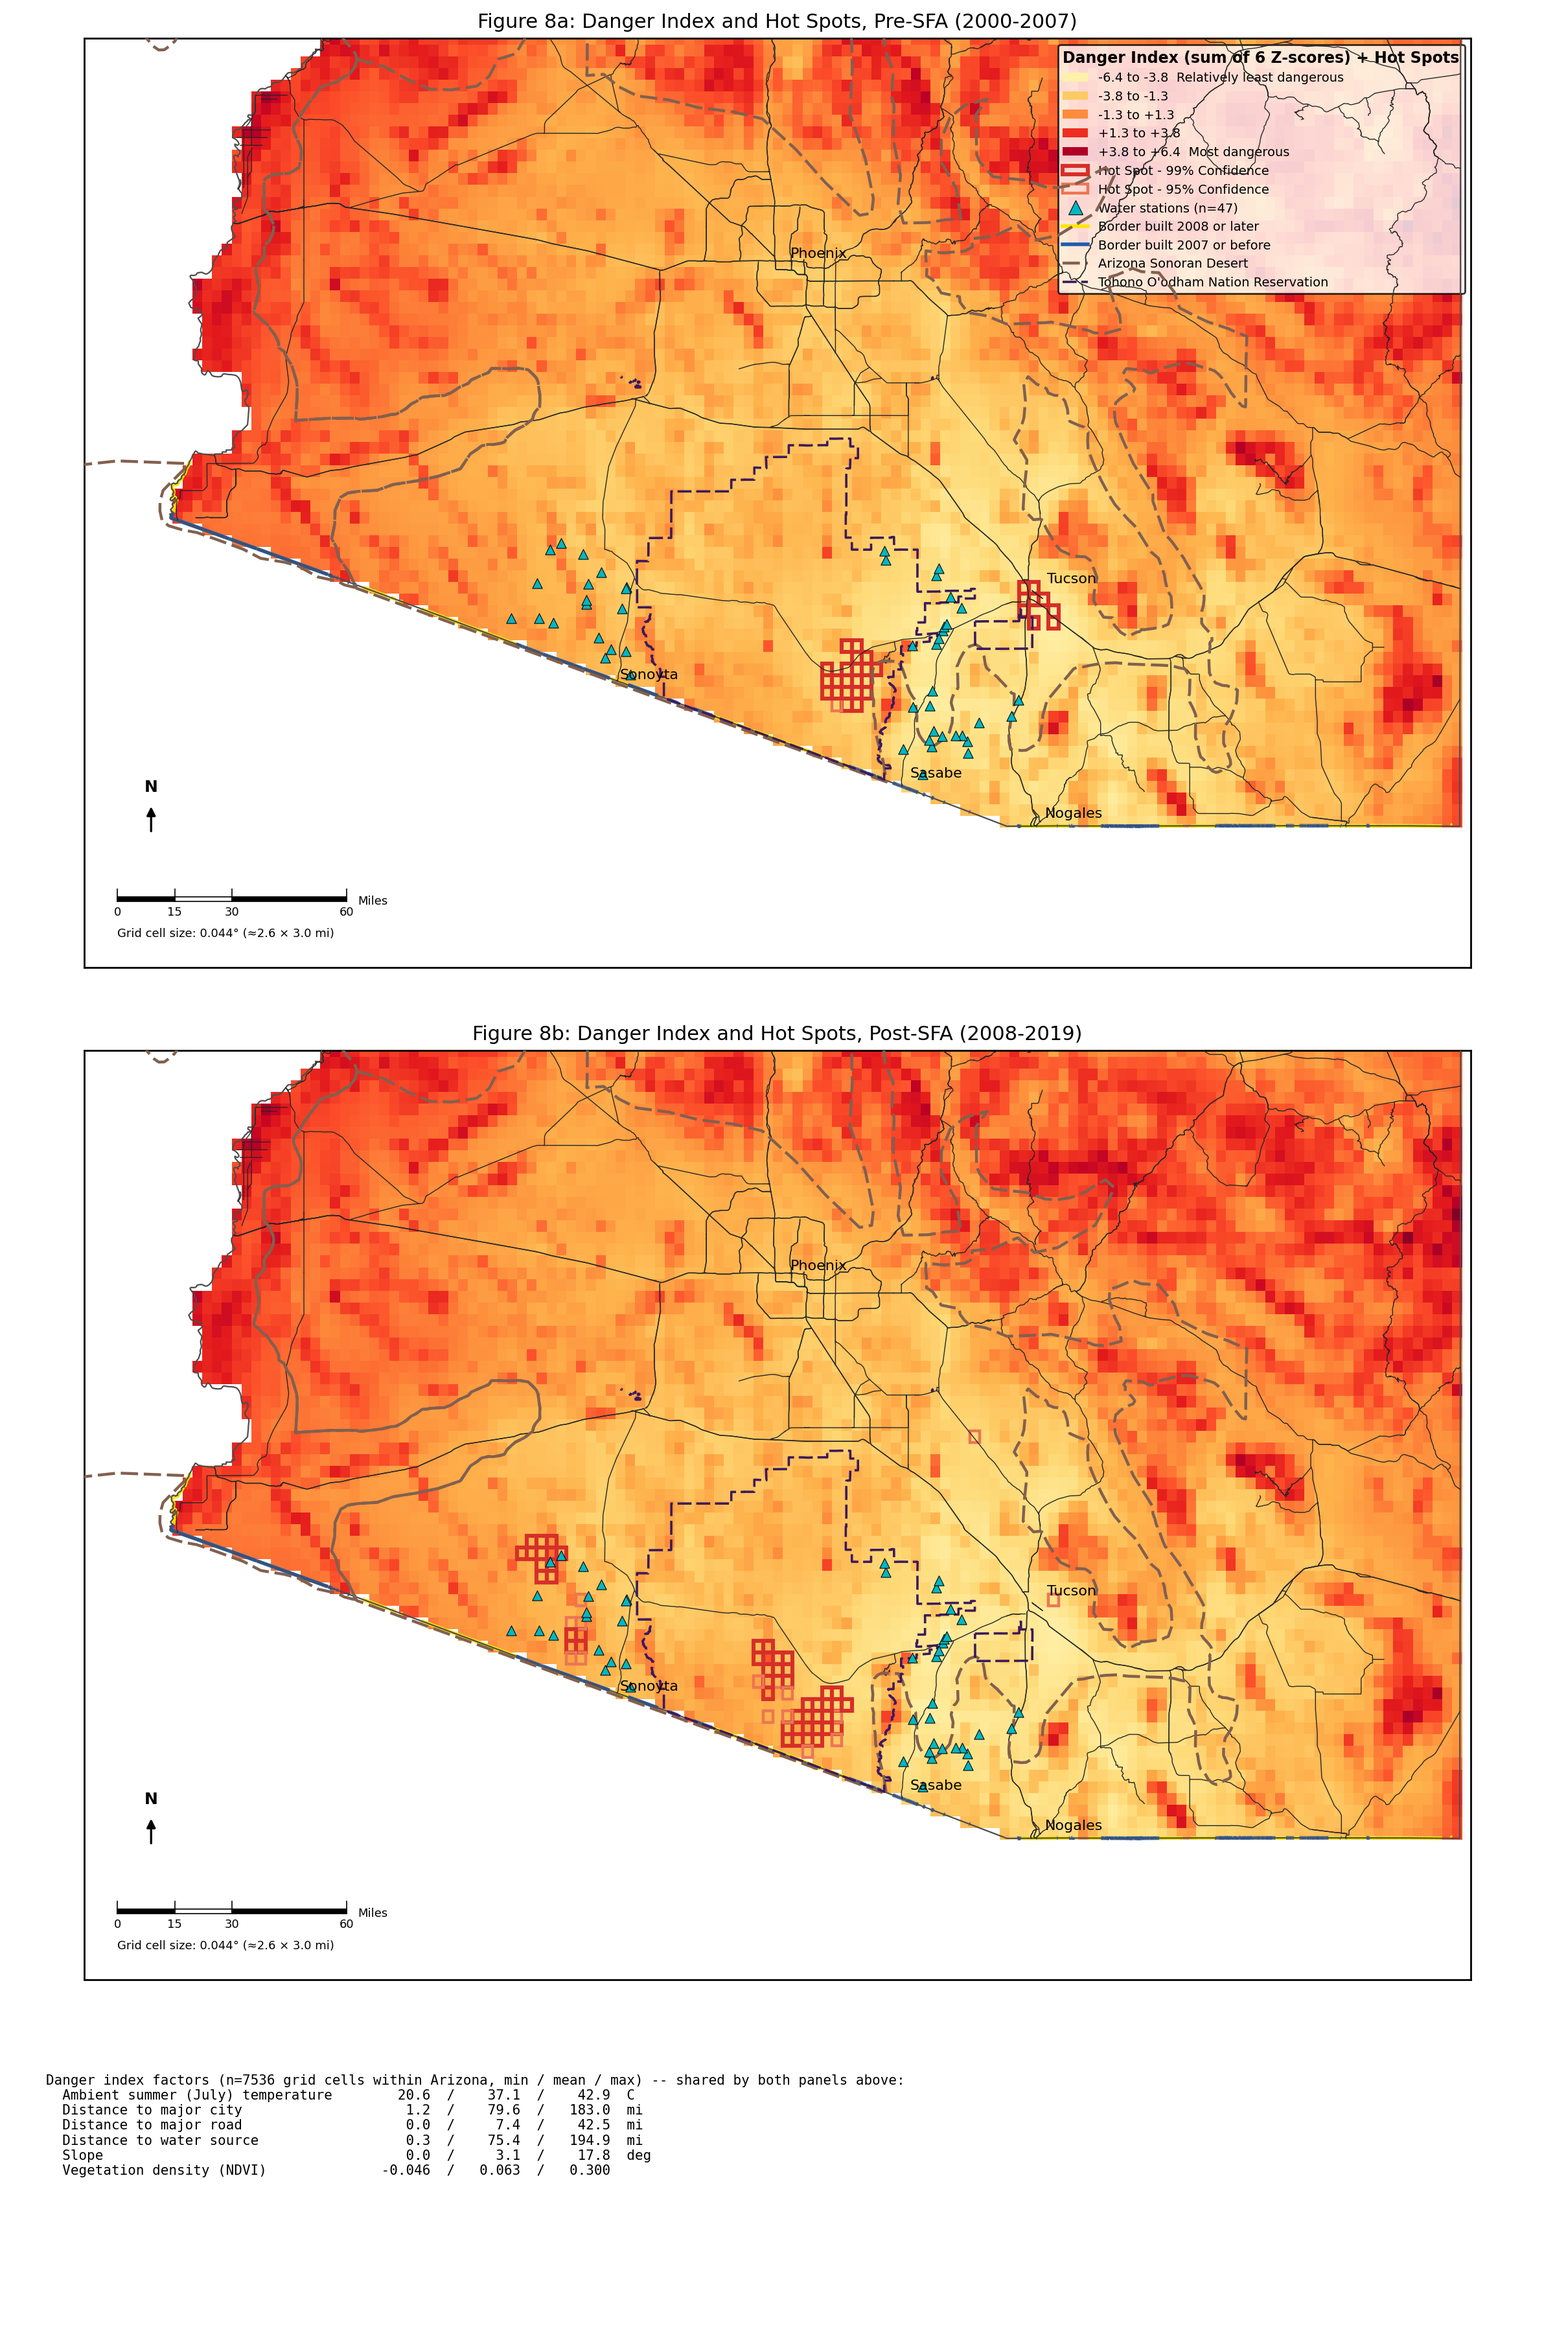
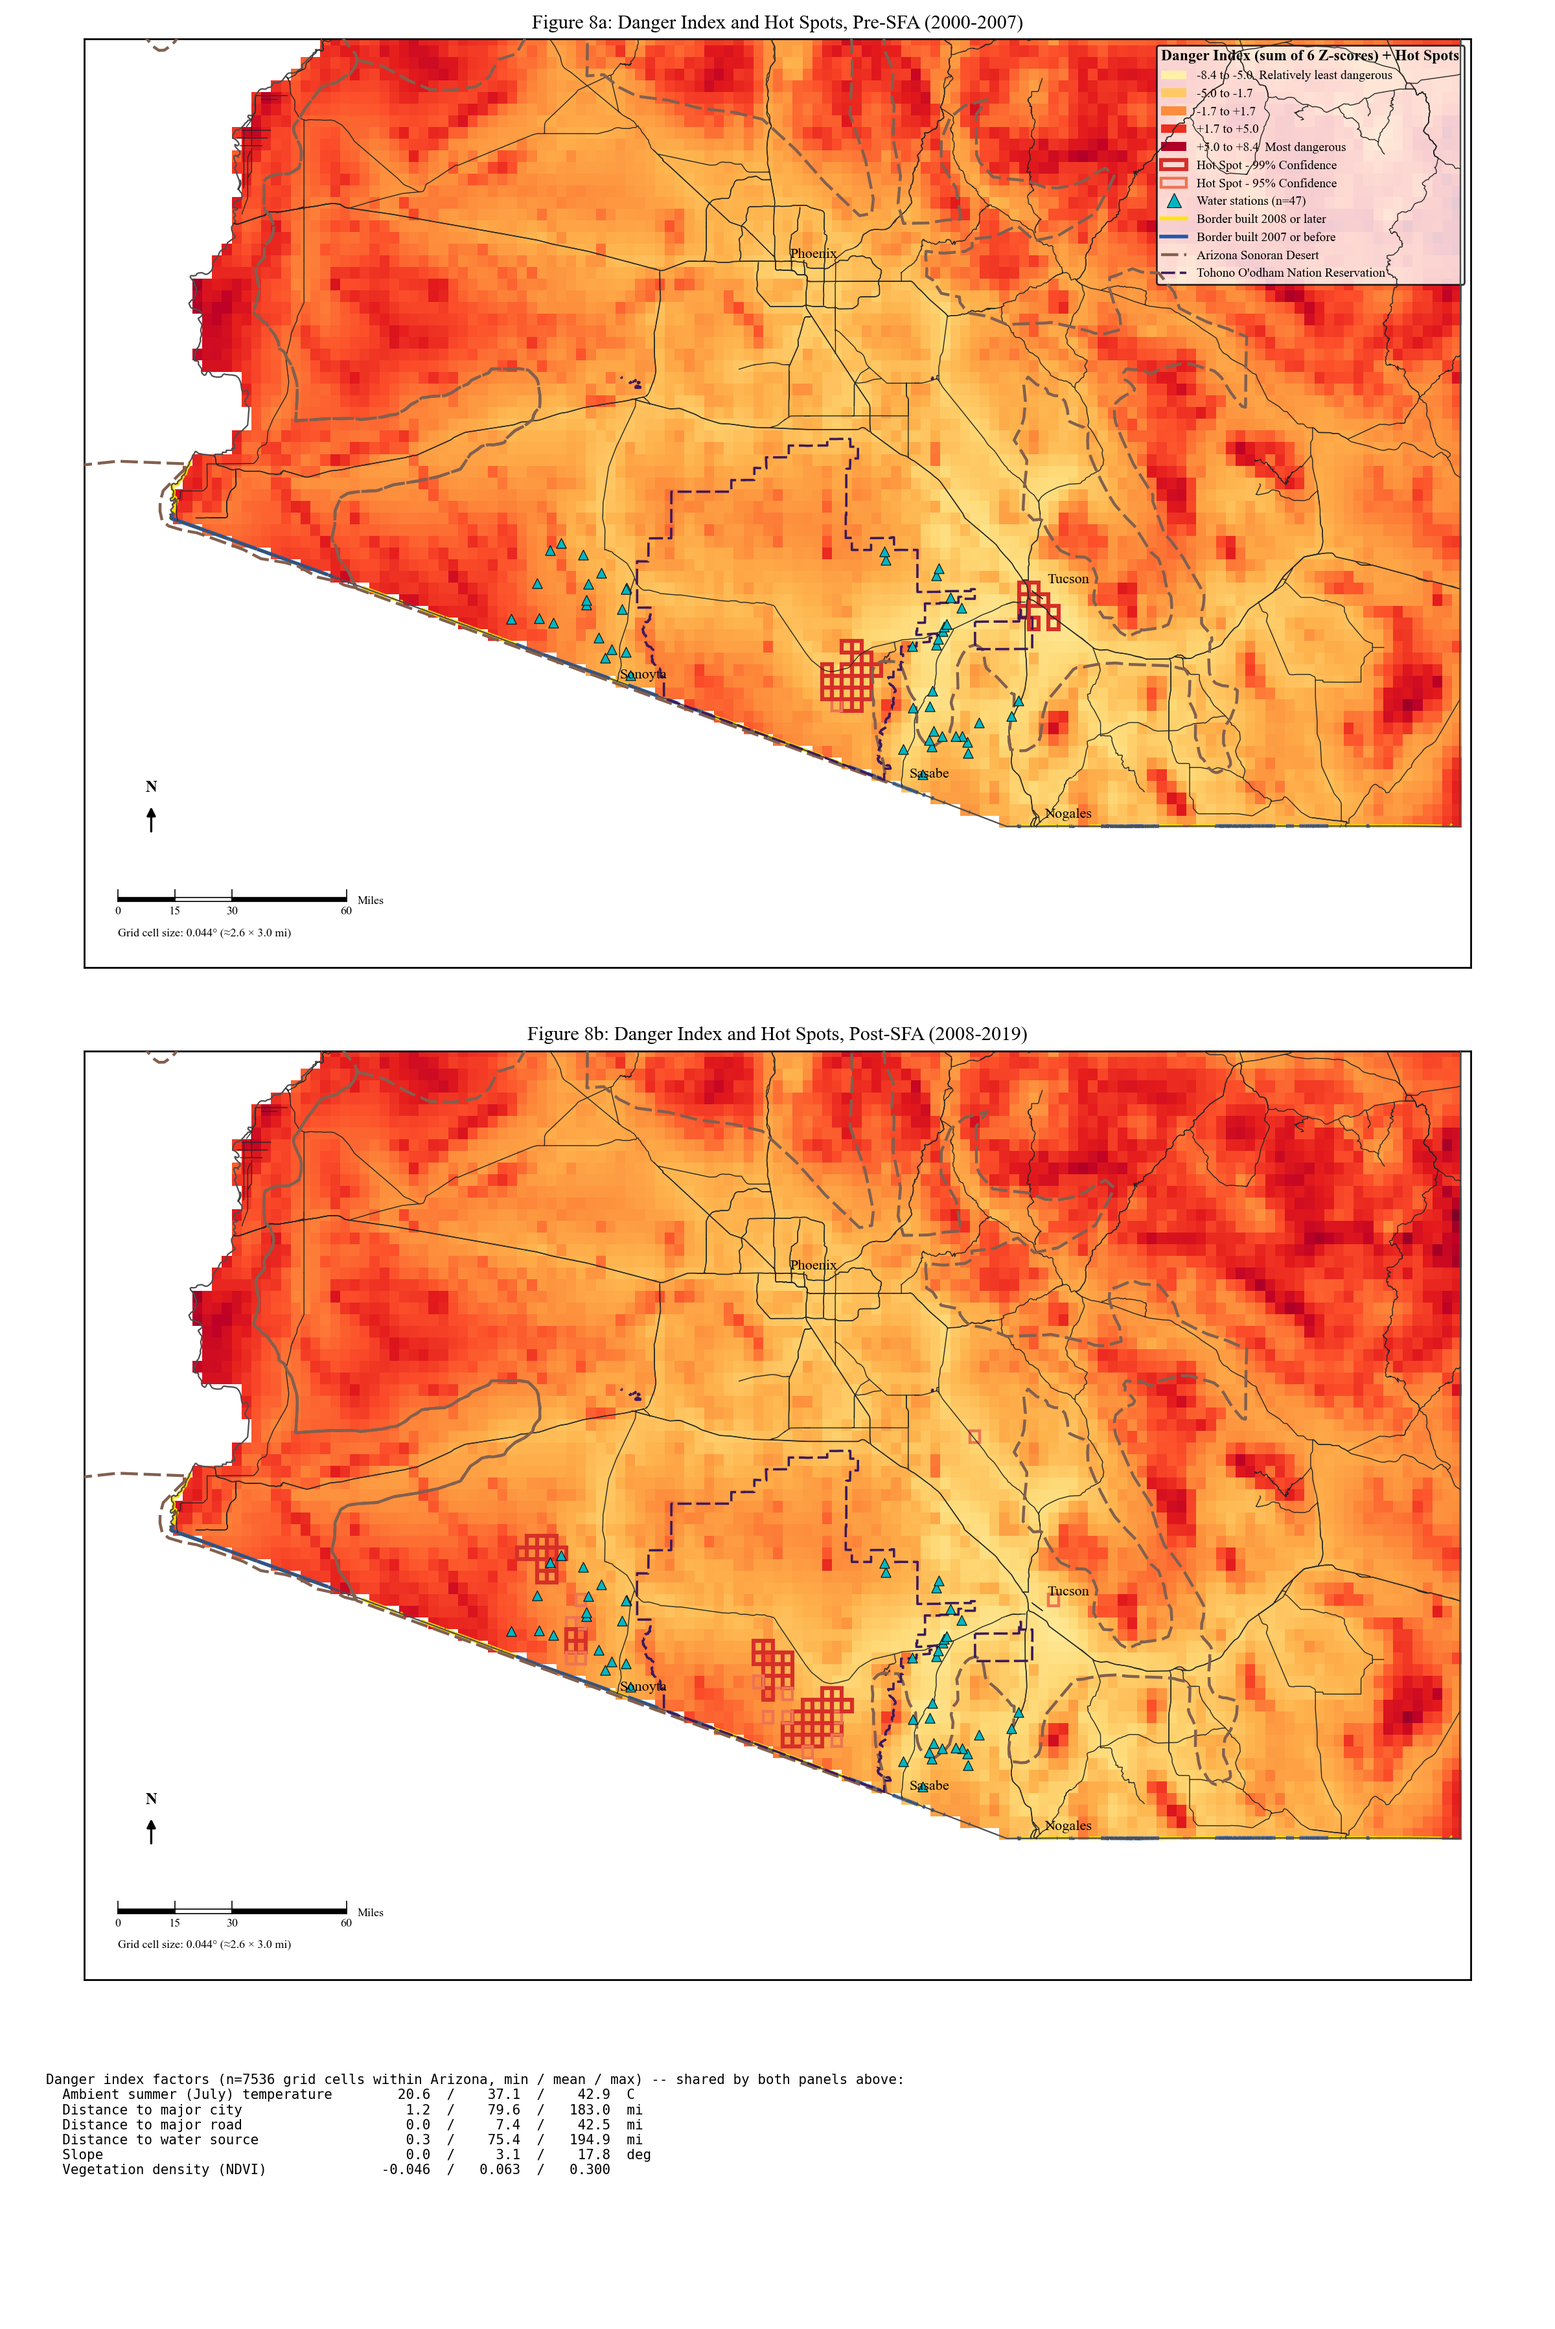
Standardize danger index Z-scores against Arizona only, not the full grid
compute_danger_index() previously computed each factor's mean/std over
the full 11,280-cell rectangular grid, which extends into slivers of
Mexico/California/New Mexico -- meaning cells outside the actual study
area were influencing the standardization scale for cells inside it.
Now standardizes against only the 7,536 in-Arizona cells.

Also factored the duplicated Arizona-boundary point-in-polygon lookup
(previously copy-pasted in render_danger_index() and
render_overlay_figure()) into one shared _compute_az_mask() helper,
computed once inside compute_danger_index() and reused by both.

Effect: composite mean within Arizona is now exactly 0 (was -0.54) and
each factor's own mean is 0 within Arizona (e.g. slope's was +0.14).
Composite range widened to -6.08/8.41 (was -5.32/6.37) since Arizona's
own terrain varies less than the full grid. Regenerated every figure
that renders the composite (figure2, figure8, figure8_black_outline,
paper_figure7_danger_index, paper_figure8_overlay) -- same spatial
pattern, rescaled legend. Also re-ran poisson_did_regression.py (not
tracked in git): post x danger_index IRR moved from 1.35 to 1.317 (95%
CI 1.223-1.419), same qualitative conclusion.

Known follow-up, not yet done: danger_index_common.R still standardizes
against the full grid (no parity), and README.md/DANGER_INDEX_METHODOLOGY.md
both still cite the old composite range in their Python/R parity claim.

diff --git a/python/danger_index_common.py b/python/danger_index_common.py
@@ -107,13 +107,40 @@ def _min_dist_to_water(lons, lats):
     return d
 
 
+def _compute_az_mask(lons, lats):
+    """True for grid cells whose center falls within Arizona's state
+    boundary. Factored out so compute_danger_index() and every render
+    function share one computation instead of each re-reading the
+    shapefile and re-running the point-in-polygon test."""
+    import shapefile
+    from shapely.geometry import Point, shape as shapely_shape
+    from shapely.prepared import prep
+    sf = shapefile.Reader(str(bc.SHAPE_DIR / "tl_2021_us_state" / "tl_2021_us_state.shp"))
+    field_names = [f[0] for f in sf.fields[1:]]
+    az_shape = None
+    for sr in sf.iterShapeRecords():
+        if dict(zip(field_names, sr.record))["STATEFP"] == "04":
+            az_shape = shapely_shape(sr.shape.__geo_interface__)
+            break
+    az_prepared = prep(az_shape)
+    return np.array([az_prepared.contains(Point(lo, la)) for lo, la in zip(lons, lats)])
+
+
 def compute_danger_index():
     """Returns a dict of per-cell arrays (row, col, lon, lat, the 6 raw
     factor values, their Z-scores, and the summed composite index), plus
-    the grid shape, ready to render or inspect."""
+    the grid shape, ready to render or inspect.
+
+    Each factor is standardized using the mean/std of *only the in-Arizona
+    cells* -- not the full rectangular grid, which extends into slivers of
+    Mexico, California, and New Mexico that aren't part of the study area.
+    Z-scores are still returned for every cell (on that Arizona-derived
+    scale), but nothing outside Arizona contributes to the scale itself.
+    See DANGER_INDEX_METHODOLOGY.md."""
     env = pd.read_csv(ENV_CSV)
     lons = env["longitude"].values
     lats = env["latitude"].values
+    in_az = _compute_az_mask(lons, lats)
 
     dist_city = _min_dist_to_points(lons, lats, MAJOR_CITIES)
     dist_road = _min_dist_to_roads(lons, lats)
@@ -123,7 +150,9 @@ def compute_danger_index():
     ndvi = env["ndvi"].values
 
     def zscore(x):
-        return (x - np.nanmean(x)) / np.nanstd(x)
+        az_mean = np.nanmean(x[in_az])
+        az_std = np.nanstd(x[in_az])
+        return (x - az_mean) / az_std
 
     z_temp = zscore(tmax)
     z_city = zscore(dist_city)
@@ -141,7 +170,7 @@ def compute_danger_index():
 
     return {
         "row": env["row"].values, "col": env["col"].values,
-        "lon": lons, "lat": lats,
+        "lon": lons, "lat": lats, "in_az": in_az,
         "dist_city_deg": dist_city, "dist_road_deg": dist_road, "dist_water_deg": dist_water,
         "slope_deg": slope, "july_tmax_c": tmax, "ndvi": ndvi,
         "z_temp": z_temp, "z_city": z_city, "z_road": z_road, "z_water": z_water,
@@ -194,19 +223,9 @@ def render_danger_index(out_filename="figure2_reproduction.png",
 
     # Mask to cells within Arizona -- a full rectangular bbox would color
     # parts of Mexico/California/New Mexico that aren't meaningful here.
-    import shapefile
-    from shapely.geometry import Point
-    from shapely.prepared import prep
-    sf = shapefile.Reader(str(bc.SHAPE_DIR / "tl_2021_us_state" / "tl_2021_us_state.shp"))
-    field_names = [f[0] for f in sf.fields[1:]]
-    az_shape = None
-    for sr in sf.iterShapeRecords():
-        if dict(zip(field_names, sr.record))["STATEFP"] == "04":
-            from shapely.geometry import shape as shapely_shape
-            az_shape = shapely_shape(sr.shape.__geo_interface__)
-            break
-    az_prepared = prep(az_shape)
-    in_az = np.array([az_prepared.contains(Point(lo, la)) for lo, la in zip(result["lon"], result["lat"])])
+    # (Also the same mask used inside compute_danger_index() to standardize
+    # the Z-scores -- computed once there, just reused here for rendering.)
+    in_az = result["in_az"]
 
     fence_before, fence_after, have_fence = bc.load_fence_layers()
 
@@ -375,19 +394,7 @@ def render_overlay_figure(out_filename="figure8_reproduction.png",
     overlay possible at all.
     """
     result = compute_danger_index()
-
-    import shapefile
-    from shapely.geometry import Point, shape as shapely_shape
-    from shapely.prepared import prep
-    sf = shapefile.Reader(str(bc.SHAPE_DIR / "tl_2021_us_state" / "tl_2021_us_state.shp"))
-    field_names = [f[0] for f in sf.fields[1:]]
-    az_shape = None
-    for sr in sf.iterShapeRecords():
-        if dict(zip(field_names, sr.record))["STATEFP"] == "04":
-            az_shape = shapely_shape(sr.shape.__geo_interface__)
-            break
-    az_prepared = prep(az_shape)
-    in_az = np.array([az_prepared.contains(Point(lo, la)) for lo, la in zip(result["lon"], result["lat"])])
+    in_az = result["in_az"]
     vabs = np.nanmax(np.abs(result["composite"][in_az]))
 
     deaths = bc.load_deaths()
